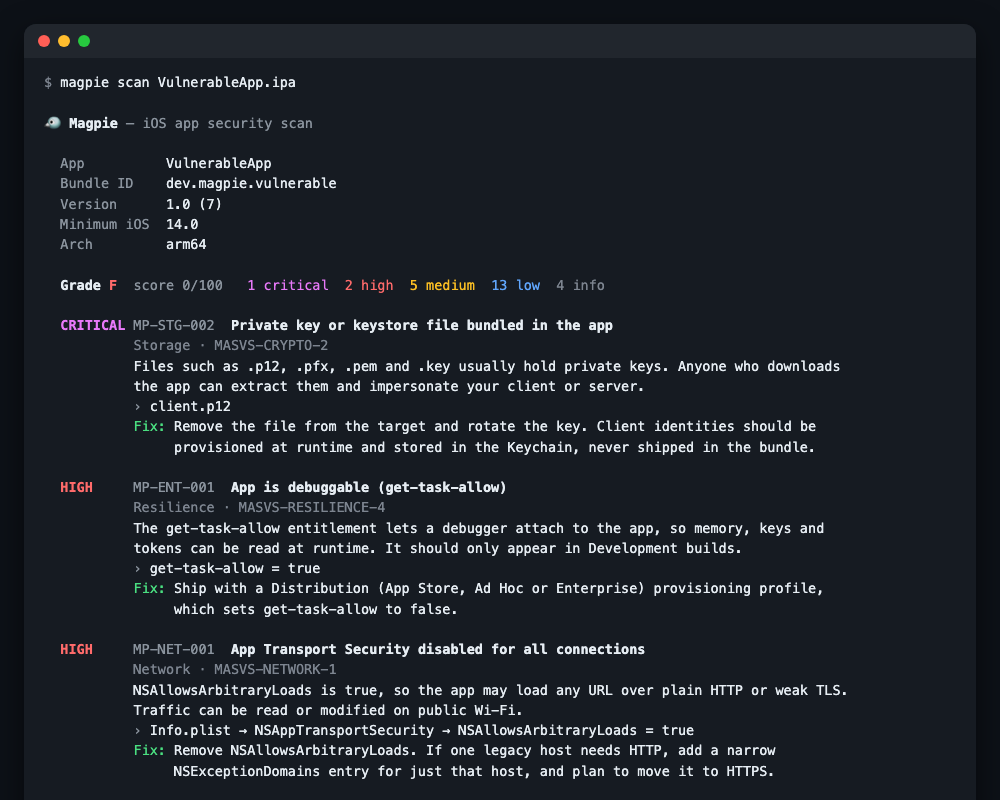
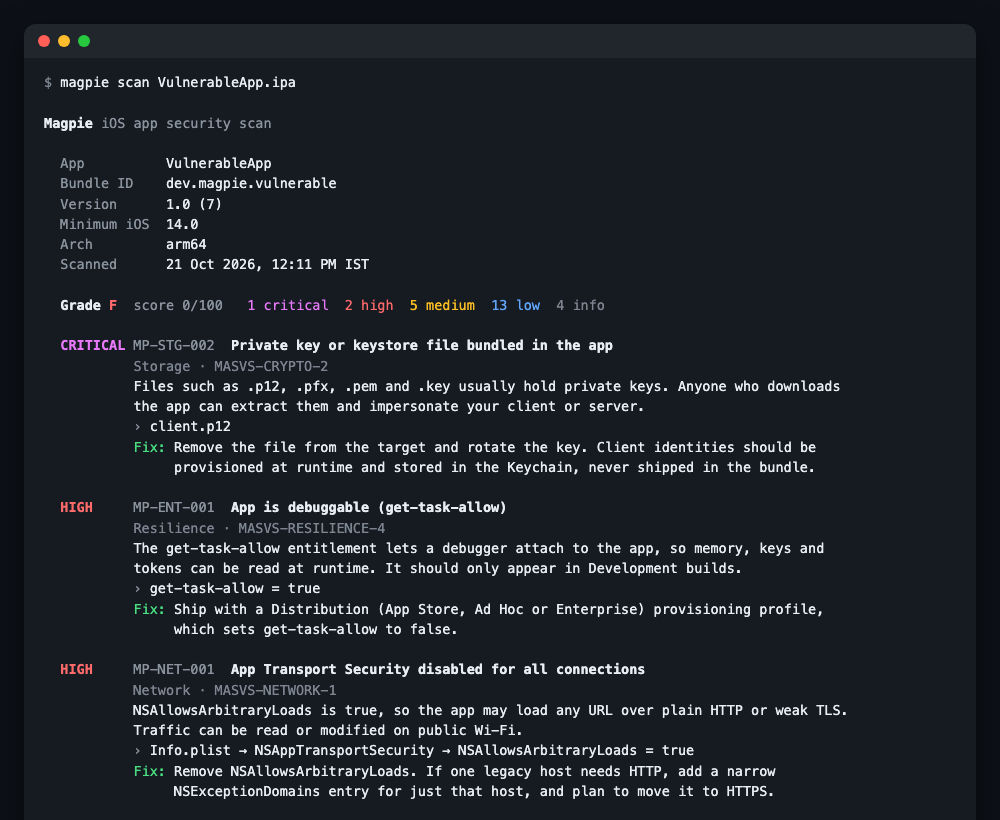
Redesign the report as a plain audit document, show local time
- HTML report: summary table with anchors to numbered findings,
  evidence blocks and recommendations; no pills, cards or emoji
- Times are shown in the scanning machine's time zone (e.g. IST)
- Plainer upload page and terminal header
- Refresh README screenshots

diff --git a/internal/server/upload.html b/internal/server/upload.html
@@ -3,23 +3,22 @@
 <head>
 <meta charset="utf-8">
 <meta name="viewport" content="width=device-width, initial-scale=1">
-<title>Magpie · iOS app security scan</title>
+<title>Magpie</title>
 <style>
-  :root { --bg: #f7f7f5; --surface: #fff; --ink: #16181d; --muted: #5b6070; --line: #d5d7dd; --accent: #2563eb; --bad: #dc2626; }
+  :root { --bg: #ffffff; --surface: #f6f8fa; --ink: #1f2328; --muted: #59636e; --line: #d1d9e0; --accent: #0969da; --bad: #cf222e; }
   @media (prefers-color-scheme: dark) {
-    :root { --bg: #111317; --surface: #1a1d23; --ink: #eceef2; --muted: #9ba1ae; --line: #343944; --accent: #60a5fa; --bad: #f87171; }
+    :root { --bg: #0d1117; --surface: #151b23; --ink: #e6edf3; --muted: #9198a1; --line: #30363d; --accent: #4493f8; --bad: #f85149; }
   }
   * { box-sizing: border-box; }
   body { margin: 0; min-height: 100vh; display: grid; place-items: center; background: var(--bg); color: var(--ink);
-    font: 15px/1.55 -apple-system, BlinkMacSystemFont, "Segoe UI", Roboto, sans-serif; padding: 16px; }
+    font: 15px/1.6 -apple-system, BlinkMacSystemFont, "Segoe UI", Helvetica, Arial, sans-serif; padding: 16px; }
   main { width: 100%; max-width: 560px; text-align: center; }
-  h1 { font-size: 30px; margin: 0 0 4px; }
+  h1 { font-size: 28px; margin: 0 0 2px; letter-spacing: -0.01em; }
   .tag { color: var(--muted); margin: 0 0 28px; }
-  #drop { display: block; border: 2px dashed var(--line); border-radius: 18px; background: var(--surface);
-    padding: 56px 24px; cursor: pointer; transition: border-color .15s, transform .15s; }
-  #drop.over { border-color: var(--accent); transform: scale(1.01); }
-  #drop .icon { font-size: 44px; }
-  #drop strong { display: block; font-size: 17px; margin-top: 8px; }
+  #drop { display: block; border: 1px dashed var(--muted); border-radius: 6px; background: var(--surface);
+    padding: 64px 24px; cursor: pointer; }
+  #drop.over { border-color: var(--accent); border-style: solid; }
+  #drop strong { display: block; font-size: 17px; }
   #drop span { color: var(--muted); font-size: 13px; }
   input[type=file] { display: none; }
   #status { min-height: 52px; margin-top: 18px; }
@@ -32,13 +31,12 @@
 </head>
 <body>
 <main>
-  <h1>🐦 Magpie</h1>
-  <p class="tag">Find the shiny things you left in your iOS app.</p>
+  <h1>Magpie</h1>
+  <p class="tag">Security scan for iOS apps</p>
 
   <label id="drop" for="file">
-    <div class="icon">📦</div>
     <strong>Drop an .ipa here</strong>
-    <span>or click to choose a file · a zipped .app works too</span>
+    <span>or click to choose a file. A zipped .app works too.</span>
   </label>
   <input id="file" type="file" accept=".ipa,.zip">
 

diff --git a/internal/report/html.go b/internal/report/html.go
@@ -2,6 +2,7 @@ package report
 
 import (
 	_ "embed"
+	"fmt"
 	"html/template"
 	"io"
 	"strings"
@@ -13,9 +14,10 @@ import (
 var htmlTemplate string
 
 var tmpl = template.Must(template.New("report").Funcs(template.FuncMap{
-	"upper": strings.ToUpper,
-	"count": func(c map[string]int, s string) int { return c[s] },
-	"sev":   func(s scan.Severity) string { return s.String() },
+	"upper":   strings.ToUpper,
+	"sev":     func(s scan.Severity) string { return s.String() },
+	"inc":     func(i int) int { return i + 1 },
+	"summary": summary,
 }).Parse(htmlTemplate))
 
 // HTML writes a self-contained, shareable report page with no external assets.
@@ -32,7 +34,17 @@ func InteractiveHTML(w io.Writer, r *scan.Report) error {
 func render(w io.Writer, r *scan.Report, interactive bool) error {
 	return tmpl.Execute(w, struct {
 		*scan.Report
-		Severities  []string
 		Interactive bool
-	}{r, []string{"critical", "high", "medium", "low", "info"}, interactive})
+	}{r, interactive})
+}
+
+// summary turns severity counts into "1 critical, 2 high, 4 info".
+func summary(counts map[string]int) string {
+	var parts []string
+	for _, s := range []scan.Severity{scan.Critical, scan.High, scan.Medium, scan.Low, scan.Info} {
+		if n := counts[s.String()]; n > 0 {
+			parts = append(parts, fmt.Sprintf("%d %s", n, s))
+		}
+	}
+	return strings.Join(parts, ", ")
 }

diff --git a/internal/report/text.go b/internal/report/text.go
@@ -53,7 +53,7 @@ func Text(w io.Writer, r *scan.Report, color bool) error {
 	b := &strings.Builder{}
 	app := r.App
 
-	fmt.Fprintf(b, "\n%s🐦 Magpie%s %s— iOS app security scan%s\n\n", c.bold, c.reset, c.dim, c.reset)
+	fmt.Fprintf(b, "\n%sMagpie%s %siOS app security scan%s\n\n", c.bold, c.reset, c.dim, c.reset)
 	row := func(k, v string) {
 		if v != "" {
 			fmt.Fprintf(b, "  %s%-12s%s %s\n", c.dim, k, c.reset, v)
@@ -71,8 +71,9 @@ func Text(w io.Writer, r *scan.Report, color bool) error {
 	row("Minimum iOS", app.MinOS)
 	row("Arch", app.Arch)
 	if app.Encrypted {
-		row("Encrypted", "yes — App Store binary, code-level checks limited")
+		row("Encrypted", "yes, App Store binary, so code checks are limited")
 	}
+	row("Scanned", r.ScannedAt.Format("2 Jan 2006, 3:04 PM MST"))
 
 	fmt.Fprintf(b, "\n  %sGrade %s%s%s  %sscore %d/100%s   ", c.bold, c.grade(r.Grade), r.Grade, c.reset, c.dim, r.Score, c.reset)
 	for _, s := range []scan.Severity{scan.Critical, scan.High, scan.Medium, scan.Low, scan.Info} {

diff --git a/internal/report/report_test.go b/internal/report/report_test.go
@@ -27,7 +27,7 @@ func TestHTMLEscapesAndRenders(t *testing.T) {
 	if strings.Contains(out, "Demo <App>") || !strings.Contains(out, "Demo &lt;App&gt;") {
 		t.Error("app name not HTML-escaped")
 	}
-	for _, want := range []string{"MP-NET-001", `data-severity="high"`, "All · 2", "grade C"} {
+	for _, want := range []string{"MP-NET-001", `href="#f1"`, "2 findings: 1 high, 1 low.", `class="medium">C</b>`} {
 		if !strings.Contains(out, want) {
 			t.Errorf("HTML missing %q", want)
 		}

diff --git a/cmd/magpie/main.go b/cmd/magpie/main.go
@@ -185,7 +185,7 @@ func serveCmd(args []string, stdout, stderr io.Writer) int {
 	}
 	pageURL := "http://" + net.JoinHostPort(host, port) + "/"
 
-	fmt.Fprintf(stdout, "🐦 Magpie is running at %s\n   Drop an .ipa on the page to scan it. Press Ctrl+C to stop.\n\n", pageURL)
+	fmt.Fprintf(stdout, "Magpie is running at %s\nDrop an .ipa on the page to scan it. Press Ctrl+C to stop.\n\n", pageURL)
 	if !*noOpen {
 		openBrowser(pageURL)
 	}

diff --git a/internal/scan/report.go b/internal/scan/report.go
@@ -56,9 +56,10 @@ func NewReport(tool, version string, app AppInfo, findings []Finding) *Report {
 	}
 
 	return &Report{
-		Tool:      tool,
-		Version:   version,
-		ScannedAt: time.Now().UTC(),
+		Tool:    tool,
+		Version: version,
+		// Local time, so reports show the scanning machine's time zone (IST in India).
+		ScannedAt: time.Now().Truncate(time.Second),
 		App:       app,
 		Score:     score,
 		Grade:     grade(score, worst),

diff --git a/internal/server/server_test.go b/internal/server/server_test.go
@@ -76,7 +76,7 @@ func TestScanUpload(t *testing.T) {
 		t.Fatalf("status %d: %s", rec.Code, rec.Body.String())
 	}
 	body := rec.Body.String()
-	for _, want := range []string{"VulnerableApp", "MP-ENT-001", "Scan another app", `class="grade F"`} {
+	for _, want := range []string{"VulnerableApp", "MP-ENT-001", "Scan another app", `class="high">F</b>`} {
 		if !strings.Contains(body, want) {
 			t.Errorf("report missing %q", want)
 		}

diff --git a/README.md b/README.md
@@ -1,6 +1,6 @@
 <div align="center">
 
-# 🐦 Magpie
+# Magpie
 
 **Find the shiny things you left in your iOS app.**
 
